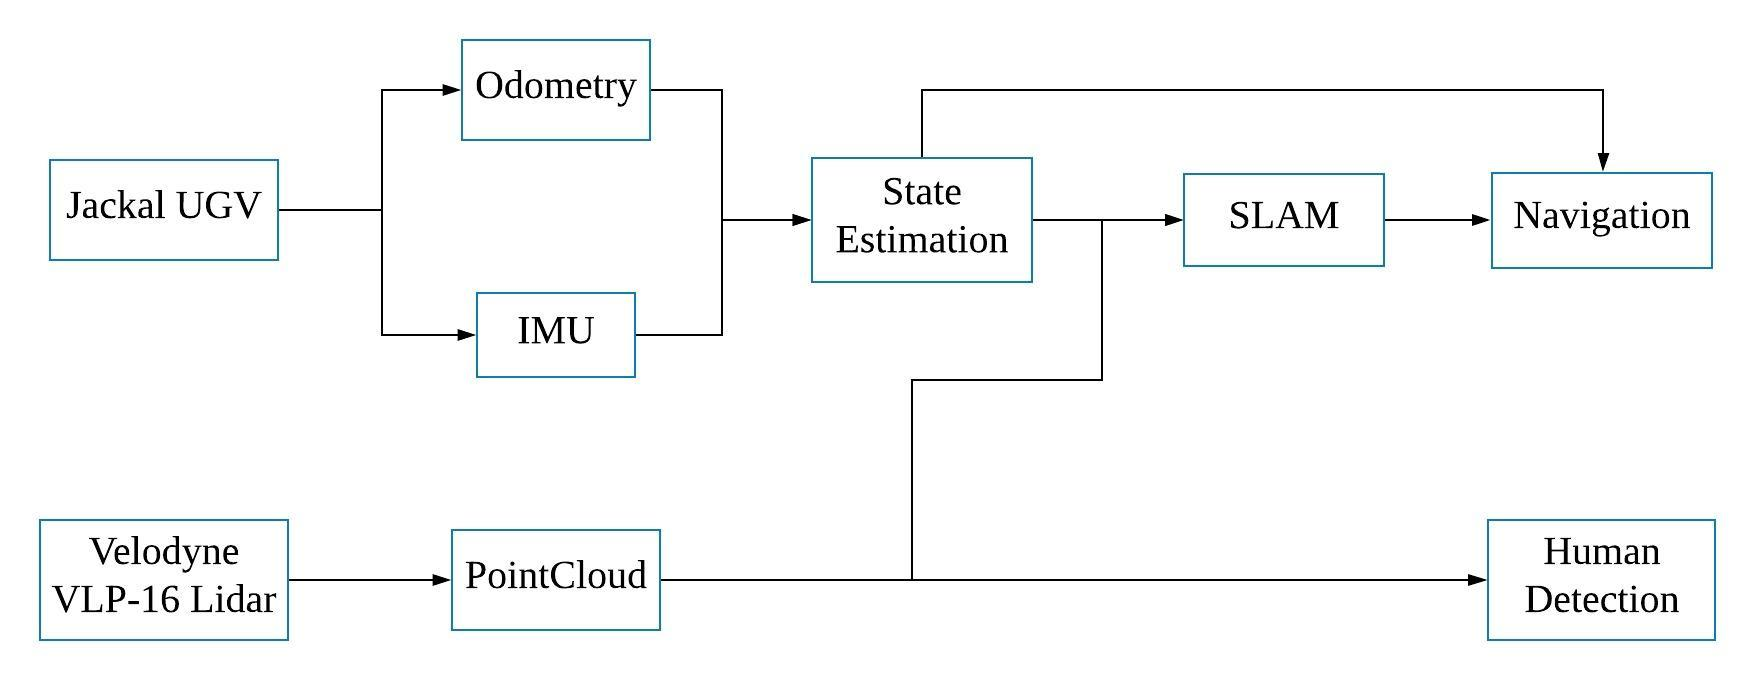
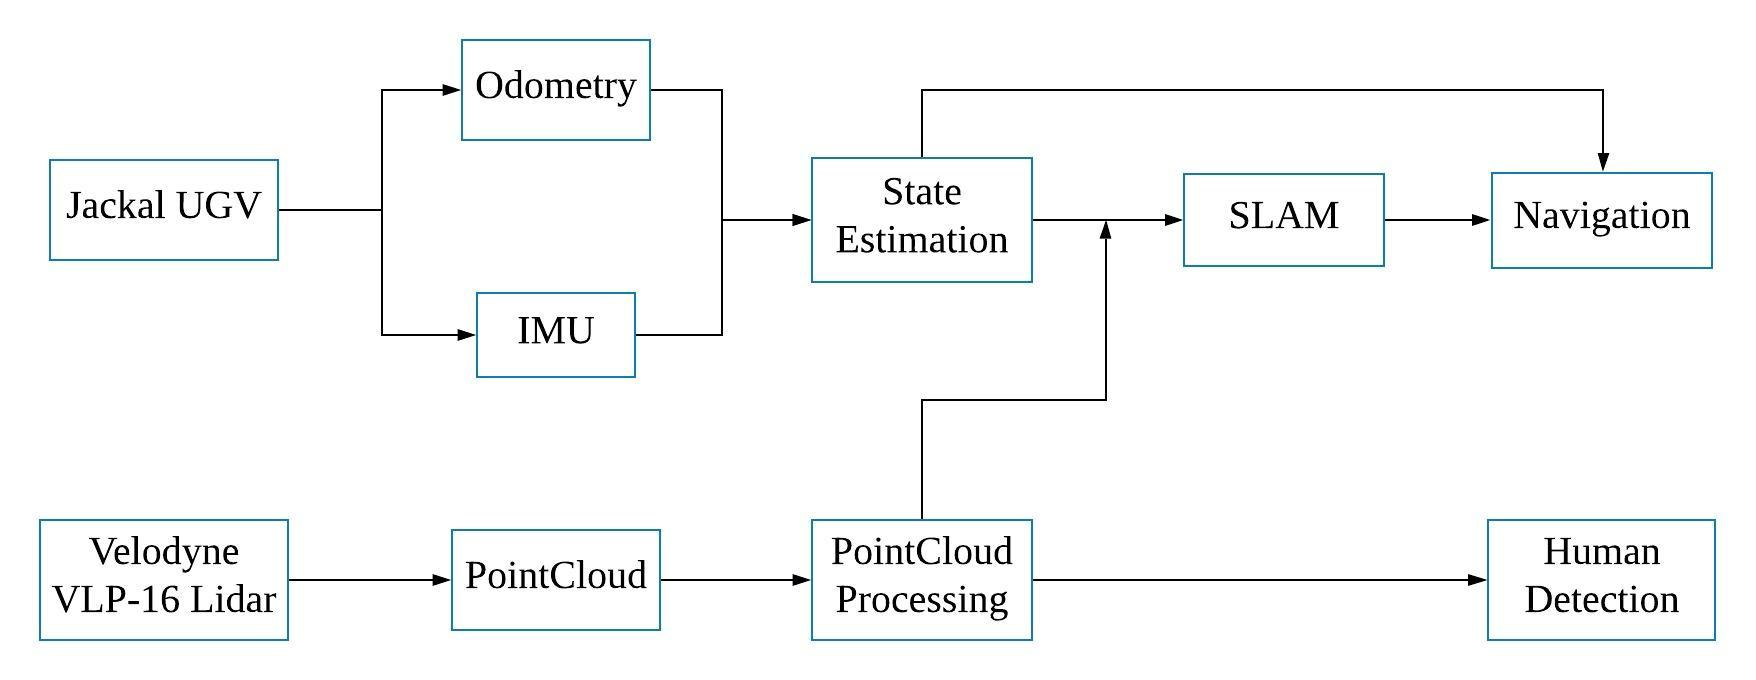
added implementation in readme

Changed region(s): [[0.4613, 0.7412, 0.5843, 0.9574], [0.615, 0.3397, 0.6458, 0.3706], [0.5228, 0.5868, 0.5535, 0.6176]]

diff --git a/README.md b/README.md
@@ -10,16 +10,33 @@
 
 -----------------------------------------------------------------------------------------
 ## Implementation
+
+#### Pipeline flow
 <p align = "center">
   <img src = "images/pipeline.jpeg" height = "240px">
 </p>
 
-### **twist_mux**
-* Assign priorities for different control mode (joystick with highest priority)
-* Location: **/winter_project/config/twist_mux_topics.yaml**
+### State estimation
+The package **robot_localization** is used to fuse Odometry with IMU data through **Extended Kalman Filter**. It estimates the robot state and provides the transformation between tf frames **/odom** and **/base_link**.
+
+### PointCloud processing
+The raw Lidar PointCloud is processed in C++ using PCL library. The following steps are implemented:
+1. Find the floor plane and remove it from the raw PointCloud
+2. Remove all points that are higher than the robot, lower than the ground and too close to the robot
+3. Get rid of noisy points that have no neighbour points within a particular radius
+4. Downsample to obtain a less dense PointCloud
+
+### SLAM
+I used the 2D SLAM package **gmapping**, which implements the Rao-Blackwellized Particle Filter to generate a 2D grip costmap and the the localizaion of the robot in the map (transformation between tf frames **/map** and **/odom**).
+
+### Navigation
+I used package **move_base** to achieve autonomous navigation of Jackal. It reads the map and localization from gmapping and plans a local and global path for the robot.
+
+### Human Detection
+I used package **hdl_people_tracking** to achieve human detection and tracking with Velodyne Lidar. It generate semantic segmentation of the human clusters in the PointCloud.
 
 -----------------------------------------------------------------------------------------
-## Dependencies
+## Dependencies and Installation
 The Jackal packages are released in ROS Indigo and Kinetic. To use them in ROS Melodic, the following compiling processes are implemented:
 
 #### Build from apt-get:
